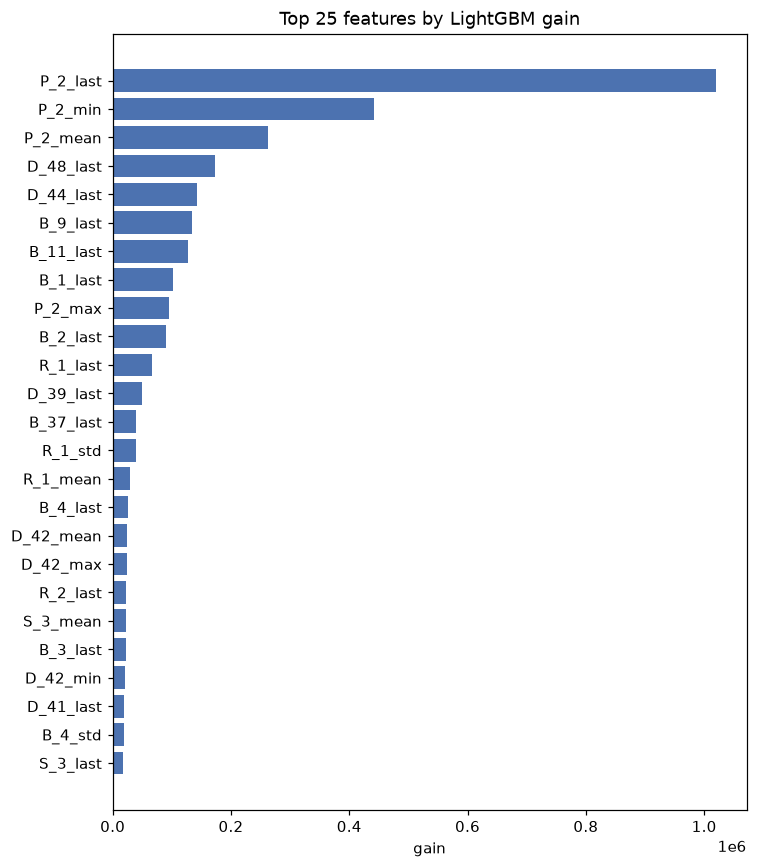
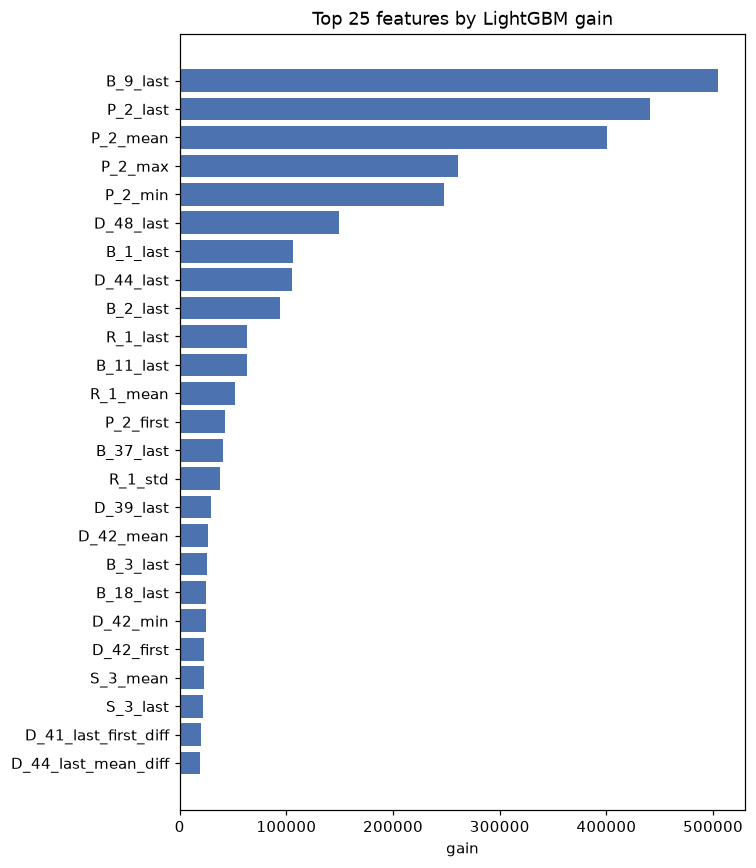
Add trend/deviation features (+0.0014 CV) and GCP cloud training
Feature engineering v2: add first, last-mean, last-first and range features
per numeric column (920 -> 1628 features). 5-fold OOF Amex improves
0.79123 -> 0.79266 ([phone redacted]); 18 of the top-100 features by gain are the
new derived signals. Assemble the wide table in Arrow column-by-column to
avoid pandas block-consolidation OOM on the 924K-row test set.

Add cloud/ training workflow: launch.sh provisions a GCP spot n2-highmem-8
and ships code + features via GCS; bootstrap_vm.sh runs as the VM startup
script (train, push results + _STATUS marker to GCS, auto power-off). README
updated with the iteration results table and a cloud-training section.

diff --git a/src/feature_engineering.py b/src/feature_engineering.py
@@ -28,8 +28,28 @@ import pyarrow.parquet as pq
 
 import config
 
-NUM_AGGS = ["mean", "std", "min", "max", "last"]
+NUM_AGGS = ["mean", "std", "min", "max", "first", "last"]
 CAT_AGGS = ["last", "nunique", "count"]
+
+
+def _add_numeric_diffs(agg: pd.DataFrame, cols: list[str]) -> pd.DataFrame:
+    """Derive trend/deviation features from the per-customer aggregates.
+
+    These are computed from columns already present (no extra data pass) and
+    capture *how a customer's account is changing*, which is more predictive
+    than its level alone:
+
+      * last_mean_diff : latest value vs. the customer's own typical value
+      * last_first_diff: net movement across the whole statement history
+      * range          : volatility (max - min)
+    """
+    new = {}
+    for c in cols:
+        last, mean = agg[f"{c}_last"], agg[f"{c}_mean"]
+        new[f"{c}_last_mean_diff"] = (last - mean).astype(np.float32)
+        new[f"{c}_last_first_diff"] = (last - agg[f"{c}_first"]).astype(np.float32)
+        new[f"{c}_range"] = (agg[f"{c}_max"] - agg[f"{c}_min"]).astype(np.float32)
+    return pd.concat([agg, pd.DataFrame(new, index=agg.index)], axis=1)
 
 
 def _batched(seq, n):
@@ -70,6 +90,7 @@ def build_features(parquet_path, out_path, col_batch: int) -> None:
         tbl = pq.read_table(parquet_path, columns=cols).to_pandas()
         tbl["_cid"] = codes
         agg = _flatten(tbl.groupby("_cid")[cols].agg(NUM_AGGS).astype(np.float32))
+        agg = _add_numeric_diffs(agg, cols)
         parts.append(agg)
         print(f"  numeric batch {b}: {len(cols)} cols -> {agg.shape[1]} feats "
               f"({time.time() - t0:.0f}s)", flush=True)
@@ -105,16 +126,31 @@ def build_features(parquet_path, out_path, col_batch: int) -> None:
     gc.collect()
 
     # --- assemble ------------------------------------------------------------
-    features = pd.concat(parts, axis=1)
-    features.insert(0, config.ID_COL, uniques)
-    features = features.reset_index(drop=True)
+    # Build the wide table column-by-column in Arrow instead of pd.concat. On the
+    # 924K-customer test set the pandas block consolidation transiently doubles
+    # memory (~12 GB) and OOMs on 16 GB; converting each part to Arrow and freeing
+    # the pandas frame as we go keeps the peak near the data size (~6 GB).
+    import pyarrow as pa
+
+    n_feats = sum(p.shape[1] for p in parts)
+    arrays = {config.ID_COL: pa.array(np.asarray(uniques))}
+    for i in range(len(parts)):
+        tbl = pa.Table.from_pandas(parts[i], preserve_index=False)
+        for name in tbl.column_names:
+            arrays[name] = tbl.column(name)
+        parts[i] = None          # release the pandas part
+        del tbl
+        gc.collect()
+    del parts
+    gc.collect()
 
     # categorical-'last' column names recorded for the model
     cat_feature_names = [f"{c}_last" for c in cat_cols]
-    print(f"Final feature matrix: {features.shape[0]:,} customers x "
-          f"{features.shape[1] - 1} features")
+    print(f"Final feature matrix: {n_cust:,} customers x {n_feats} features")
 
-    features.to_parquet(out_path, index=False)
+    pq.write_table(pa.table(arrays), out_path)
+    del arrays
+    gc.collect()
     # Persist the categorical column list alongside (same names both splits).
     (config.PROCESSED_DIR / "categorical_features.txt").write_text(
         "\n".join(cat_feature_names)

diff --git a/README.md b/README.md
@@ -120,7 +120,7 @@ raw CSV (48 GB)
 Parquet (~10 GB)
   │  feature_engineering.py  (per-customer aggregation, column-batched)
   ▼
-feature matrix (458K × ~920)
+feature matrix (458K × 1,628)
   │  train_baseline.py       (5-fold stratified CV, LightGBM)
   ▼
 models + OOF + CV score
@@ -142,40 +142,56 @@ Key hyper-parameters (see [`train_baseline.py`](src/train_baseline.py)):
 `learning_rate=0.03`, `num_leaves=128`, `feature_fraction=0.4`,
 `bagging_fraction=0.8`, `lambda_l2=2.0`.
 
+### Scaling out: cloud training
+
+Training the wide (1,628-feature) model is memory-bound on a 16 GB laptop, so
+the training step is offloaded to a **GCP spot VM** (`n2-highmem-8`, 8 vCPU /
+64 GB) — see [`cloud/`](cloud/). The workflow is fully unattended and
+fault-tolerant:
+
+* [`cloud/launch.sh`](cloud/launch.sh) enables the APIs, uploads code + the
+  feature table to a GCS bucket, and creates a **spot** VM (~$0.10–0.15/hr).
+* [`cloud/bootstrap_vm.sh`](cloud/bootstrap_vm.sh) runs as the VM **startup
+  script**: it installs the stack, pulls the data, trains, pushes the models +
+  CV metadata back to GCS with a `_STATUS` marker, and **powers the VM off** so
+  billing stops automatically.
+
+Because the job is driven by the VM (not the local session) and signals
+completion through GCS, the run survives laptop sleeps / disconnects, and the
+whole 5-fold training completes in ~10–15 minutes for a few cents.
+
 ## 6. Results
 
-**5-fold cross-validated LightGBM baseline:**
+The project is developed as a series of cross-validated iterations. Every score
+below is the **out-of-fold (OOF) Amex metric** under the same 5-fold
+StratifiedKFold split — an honest, leakage-free estimate.
 
-| Metric | Value |
-|--------|------:|
-| **OOF Amex metric** | **0.79123** |
-| Mean fold Amex | 0.79159 |
-| Std across folds | 0.00376 |
-| Per-fold | 0.79777 / 0.78899 / 0.79096 / 0.78688 / 0.79335 |
-| Features | 920 |
-| Customers (train) | 458,913 |
+| Iteration | Features | OOF Amex | Mean fold | Std | Δ |
+|-----------|---------:|---------:|----------:|----:|--:|
+| **v1** — baseline aggregations (`mean/std/min/max/last`) | 920 | 0.79123 | 0.79159 | 0.0038 | — |
+| **v2** — + trend/deviation features (`first`, `last−mean`, `last−first`, `range`) | 1,628 | **0.79266** | 0.79288 | 0.0034 | **[phone redacted]** |
 
 For context, the competition's **private-leaderboard winners scored ≈ 0.808**,
-and a single well-tuned LightGBM on aggregated features typically lands around
-**0.78–0.79** — so this baseline is already competitive, and the CV is tight
-(std < 0.004), meaning the estimate is stable across folds.
+and a single LightGBM on aggregated features typically lands around
+**0.78–0.79** — so this model is already competitive, and the CV is tight
+(std < 0.004), meaning the estimate is stable across folds. The **v2** trend
+features (how a customer's account is *changing*, not just its level) gave a
+clean, consistent lift — **18 of the top-100 features by gain are the new
+derived features**.
 
-**Top features by gain** (full table in `outputs/feature_importance.csv`):
+**Top features by gain** (v2, full table in `outputs/feature_importance.csv`):
 
 | Rank | Feature | Meaning |
 |-----:|---------|---------|
-| 1 | `P_2_last`  | most recent payment feature |
-| 2 | `P_2_min`   | worst payment over history |
+| 1 | `B_9_last`  | latest balance state |
+| 2 | `P_2_last`  | most recent payment feature |
 | 3 | `P_2_mean`  | average payment level |
-| 4 | `D_48_last` | latest delinquency state |
-| 5 | `D_44_last` | latest delinquency state |
-| 6 | `B_9_last`  | latest balance state |
-| 7 | `B_11_last` | latest balance state |
+| 4 | `P_2_max` / `P_2_min` | payment range over history |
+| 6 | `D_48_last` | latest delinquency state |
+| 13 | `P_2_first` | earliest payment level (new trend feature) |
 
-`P_2` dominates by a wide margin — its `last`/`min`/`mean` aggregations are the
-three strongest signals, which matches the well-documented behaviour of this
-dataset. The prevalence of `*_last` features confirms that a customer's **most
-recent statement** carries the most predictive information.
+`P_2` dominates across its aggregations, and `*_last` features confirm that a
+customer's **most recent statement** carries the most predictive signal.
 
 <p align="center">
   <img src="reports/figures/target_distribution.png" width="45%" alt="Target distribution">
@@ -194,6 +210,9 @@ amex/
 ├── .gitignore
 ├── amex-default-prediction/        # raw Kaggle CSVs (gitignored)
 ├── data/processed/                 # parquet + engineered features (gitignored)
+├── cloud/
+│   ├── launch.sh                   # provision GCP spot VM + upload via GCS
+│   └── bootstrap_vm.sh             # VM startup-script: train + push results
 ├── notebooks/
 │   └── 01_eda.ipynb                # exploratory data analysis
 ├── reports/figures/                # committed EDA + importance plots (README)